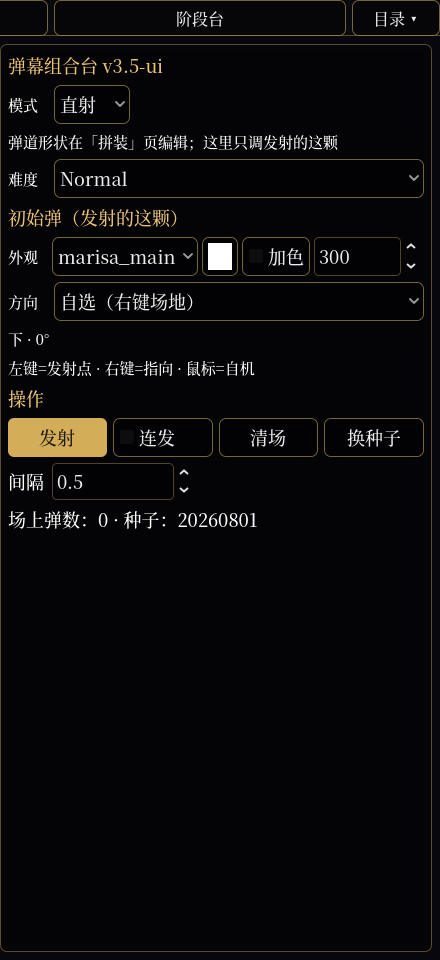
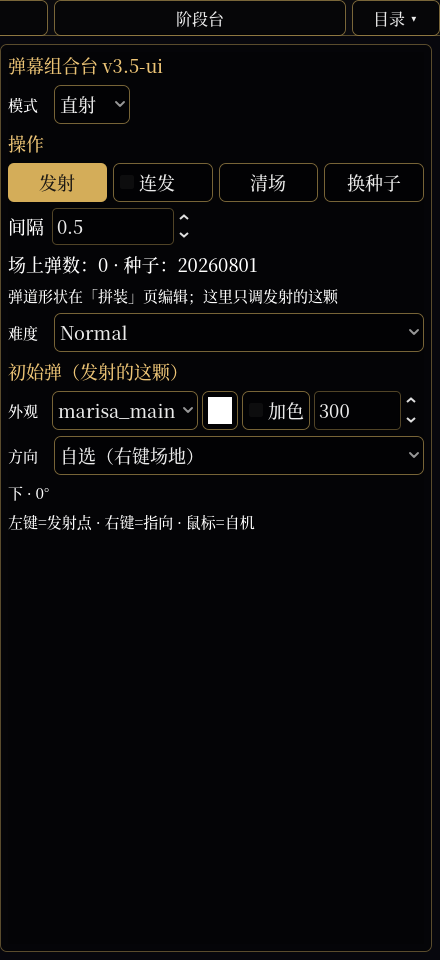
refactor(workbench): 操作四键提升为直射/拼装共用顶栏
- 发射/连发/清场/换种子 + 间隔/统计从直射页私有改为两模式共用
- 操作栏放到模式行下方，拼装页无需滚到代码框下面才能发射
- 移除拼装页重复的“预览发射”按钮，统一走共用“发射”
- 更新 direct.png / templates.png；全量 830 / 7699

diff --git a/README.md b/README.md
@@ -135,7 +135,7 @@ grep -rn "关键词" --include="*.gd" scripts/ data/
 - **调参工具**：固定种子（可复现）· 命中框 · 逐帧（F）· 12x 快进跳转 · 书签（静态提取 + 人工打点）
 - 幽灵玩家提供自机狙目标；静音/背景开关/事件日志/实时状态
 - **全局目录**：顶栏「目录」抽屉，四个页签下都能开；双击条目直达对应台（不再只活在整关预览里）
-- **弹幕台两种模式**：直射（初始弹外形/方向/发射）· 拼装（初始弹 + A/B 替换弹模板 + Move/Until/Action/Dir → 预览 → 生成/复制代码；目录里有「弹道描述符」组）
+- **弹幕台两种模式**：直射（初始弹外形/方向/发射）· 拼装（初始弹 + A/B 替换弹模板 + Move/Until/Action/Dir → 预览 → 生成/复制代码；目录里有「弹道描述符」组）· 操作四键在两种模式顶部共用
 - **弹幕 / 敌人 / 阶段三个组合台有热更新**（改脚本约 1.3s 自动重载）；**整关预览没有**，改关卡脚本/时间线后切页或重启
 - 目录自动扫描 `res://data/`，双击条目直达对应组合台（面板显示条数 / 警告数）
 - 创作流程见 [CONTENT_GUIDE.md](CONTENT_GUIDE.md)；架构决策见 [docs/archive/ARCHITECTURE_ROADMAP.md](docs/archive/ARCHITECTURE_ROADMAP.md)「内容工作台演进」专节（已归档）

diff --git a/CONTENT_GUIDE.md b/CONTENT_GUIDE.md
@@ -474,7 +474,7 @@ _bullet.trajectory(_sharp_turn())    # 直接挂，不经端口
 
 | 工具 | 用法 |
 |------|------|
-| **创作台** | F6 `scenes/workbench/creation_station.tscn`：整关预览 / 弹幕台 / 敌人台 / 阶段台；**顶栏「目录」全局抽屉（含「弹道描述符」组）**；弹幕台有 **直射（初始弹外形/方向/发射）/ 拼装（相位 + A/B 模板 + 代码）** 两模式 |
+| **创作台** | F6 `scenes/workbench/creation_station.tscn`：整关预览 / 弹幕台 / 敌人台 / 阶段台；**顶栏「目录」全局抽屉（含「弹道描述符」组）**；弹幕台有 **直射（初始弹外形/方向）/ 拼装（相位 + A/B 模板 + 代码）** 两模式，发射/连发/清场/换种子共用顶部操作栏 |
 | **对话预览** | `godot --path . scenes/ui/dialogue_preview.tscn -- --func=战斗后`（`--list` 列目录 / `--dry` 无头打印整段 / `--shot=x.png` 截图）—— 不用打关卡就能看对话 |
 | 固定种子 | 播放区开关：重跑弹幕序列可复现（调参必备） |
 | 命中框 | 播放区开关：红=敌弹判定、绿=敌人、青=自机、蓝=擦弹 |

diff --git a/docs/BEST_PRACTICES_LOG.md b/docs/BEST_PRACTICES_LOG.md
@@ -57,7 +57,7 @@
 
 - 直射页外观从 4 组“标签 + 全宽控件”收成一行：贴图 / 色块 / 加色 / 速度。
 - 难度改成一行；初始弹区标题与拼装页统一为“初始弹（发射的这颗）”。
-- 方向保留一行 + 角度提示；操作四键（发射/连发/清场/换种子）从 2×2 收成一行；间隔/统计不变。
+- 方向保留一行 + 角度提示；操作四键（发射/连发/清场/换种子）从 2×2 收成一行，并提升为直射/拼装共用的顶部操作栏；间隔/统计同样共用。
 - 无行为脚本时旧的空区块仍隐藏；直射页现在和拼装页的初始弹编辑同风格。
 - 全量 830 / 7699；verify 七步全绿。
 
